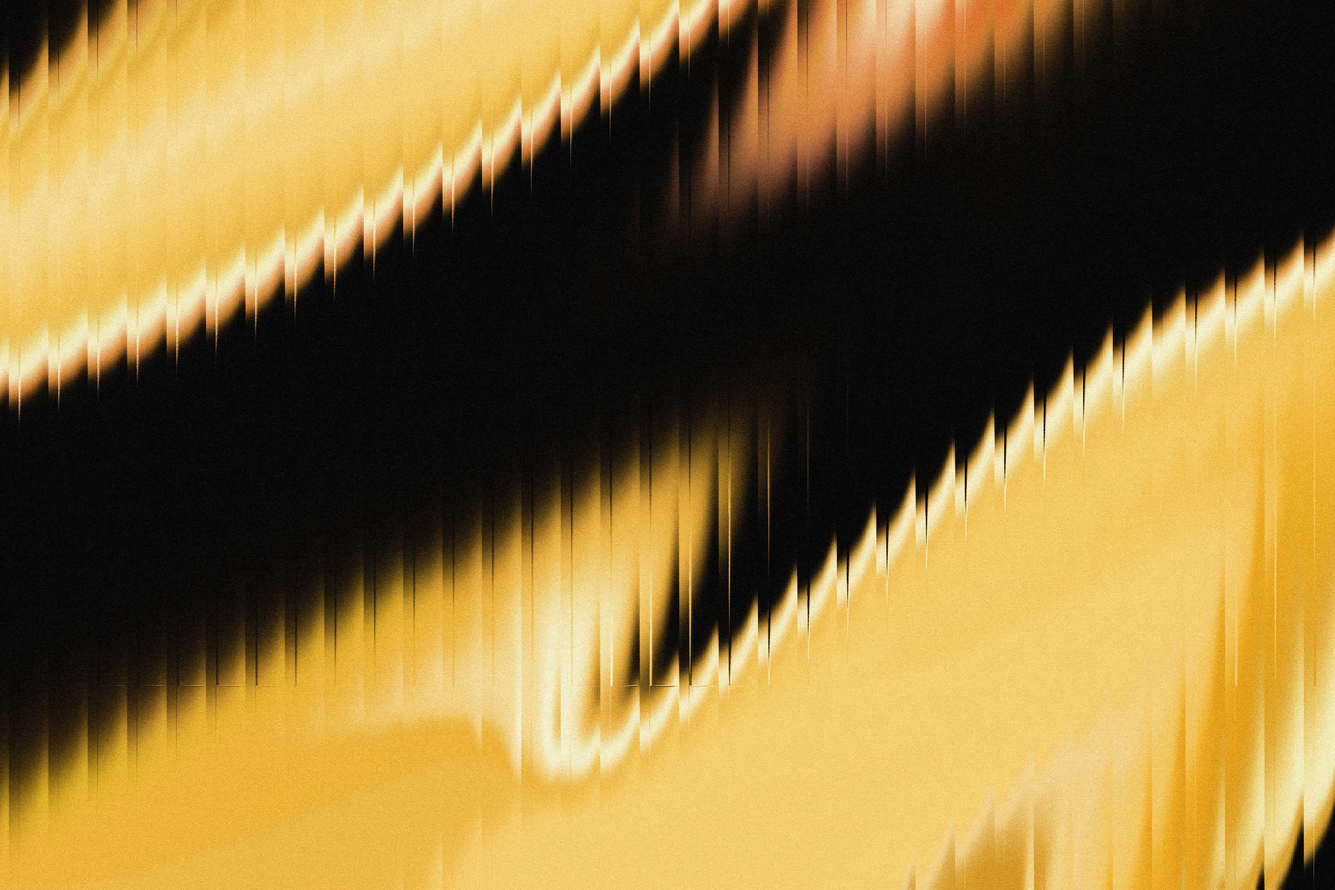
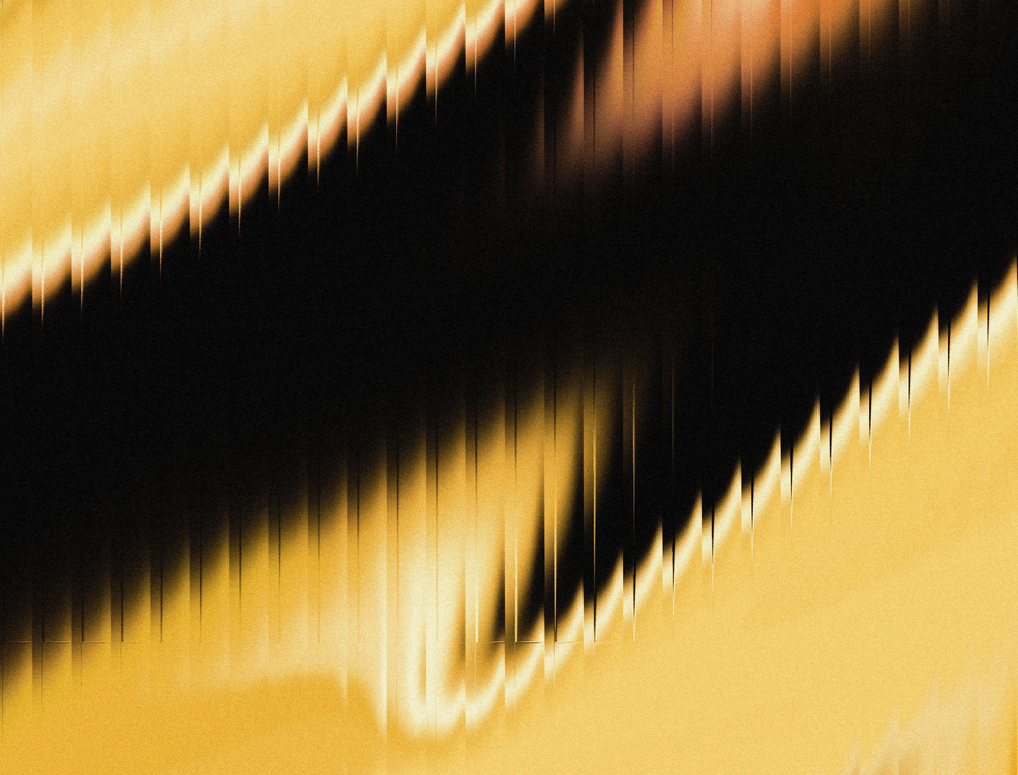
对齐 frosted-glass-ui-crm-dashboard 参考模板毛玻璃参数 + Figtree 字体 + 动画修复
- 替换背景图为参考模板的 Fractal Glass 4 图片
- 添加 Figtree 可变字体 (woff2, 300-900 weight)
- 统一所有玻璃组件 backdrop-filter 参数: blur(24px) + bg:0.10 + border:0.20
- 修复动画 fill-mode (both→backwards) 防止 backdrop-filter 被合成层阻断
- 更新 .gitignore: 排除测试截图/日志/参考模板

diff --git a/FlashBack-GUI/frontend/index.html b/FlashBack-GUI/frontend/index.html
@@ -396,7 +396,7 @@
         </div>
 
         <!-- 结果列表 -->
-        <div style="flex:1;overflow-y:auto;display:flex;flex-direction:column;gap:12px;padding-right:4px;" id="results-list">
+        <div style="flex:1;display:flex;flex-direction:column;gap:12px;padding-right:4px;" id="results-list">
           <div class="panel">
             <div class="panel-body" style="text-align:center;padding:48px;">
               <svg width="48" height="48" viewBox="0 0 24 24" fill="none" stroke="currentColor" stroke-width="1.2" stroke-linecap="round" style="color:var(--border-strong);margin-bottom:12px;"><rect x="3" y="3" width="18" height="18" rx="3"/><path d="M9 3v18"/><path d="M3 9h6"/><path d="M3 15h6"/><path d="M14 8h4"/><path d="M14 12h4"/><path d="M14 16h3"/></svg>
@@ -651,7 +651,7 @@
           <div class="sub">$ man flashback</div>
         </div>
 
-        <div style="flex:1;overflow-y:auto;max-width:660px;margin:0 auto;display:flex;flex-direction:column;gap:20px;">
+        <div style="flex:1;max-width:660px;margin:0 auto;display:flex;flex-direction:column;gap:20px;">
 
           <!-- 快速入门 -->
           <div class="panel">

diff --git a/FlashBack-GUI/frontend/css/main.css b/FlashBack-GUI/frontend/css/main.css
@@ -216,6 +216,7 @@ a:hover { text-decoration: underline; }
   border-radius: 24px;
   z-index: 50;
   gap: 6px;
+  position: relative;
 }
 
 /* Logo 区 */
@@ -345,7 +346,7 @@ a:hover { text-decoration: underline; }
   min-height: 100%;
   overflow: visible;
   padding: 36px 44px;
-  animation: pageIn 0.3s var(--ease) forwards;
+  animation: pageIn 0.3s var(--ease) backwards;
 }
 
 .page-section.active { display: flex; flex-direction: column; }
@@ -477,6 +478,7 @@ a:hover { text-decoration: underline; }
   -webkit-backdrop-filter: blur(24px);
   border: 1px solid rgba(255, 255, 255, 0.20);
   border-radius: 24px;
+  position: relative;
 }
 .glass:hover {
   background: rgba(255, 255, 255, 0.15);
@@ -492,6 +494,7 @@ a:hover { text-decoration: underline; }
   border-radius: 24px;
   transition: transform 0.4s var(--ease), background 0.4s var(--ease), border-color 0.4s var(--ease);
   cursor: default;
+  position: relative;
 }
 .panel:hover {
   background: rgba(255, 255, 255, 0.15);

diff --git a/FlashBack-GUI/frontend/css/components.css b/FlashBack-GUI/frontend/css/components.css
@@ -148,6 +148,7 @@
   border-radius: 24px;
   transition: transform 0.4s var(--ease), background 0.4s var(--ease), border-color 0.4s var(--ease);
   cursor: pointer;
+  position: relative;
 }
 .stat-card:hover {
   background: rgba(255, 255, 255, 0.15);
@@ -198,6 +199,7 @@
   border-radius: 24px;
   flex: 1;
   min-height: 0;
+  position: relative;
 }
 
 .terminal-bar {
@@ -402,6 +404,7 @@
   border-radius: 24px;
   cursor: pointer;
   transition: all var(--transition);
+  position: relative;
 }
 .result-card:hover {
   background: rgba(255, 255, 255, 0.15);

diff --git a/FlashBack-GUI/frontend/css/settings.css b/FlashBack-GUI/frontend/css/settings.css
@@ -7,7 +7,6 @@
 /* ── 三栏网格布局 ──────────────────────────────── */
 .settings-grid {
   flex: 1;
-  overflow-y: auto;
   display: grid;
   grid-template-columns: 280px 1fr 280px;
   gap: 24px;
